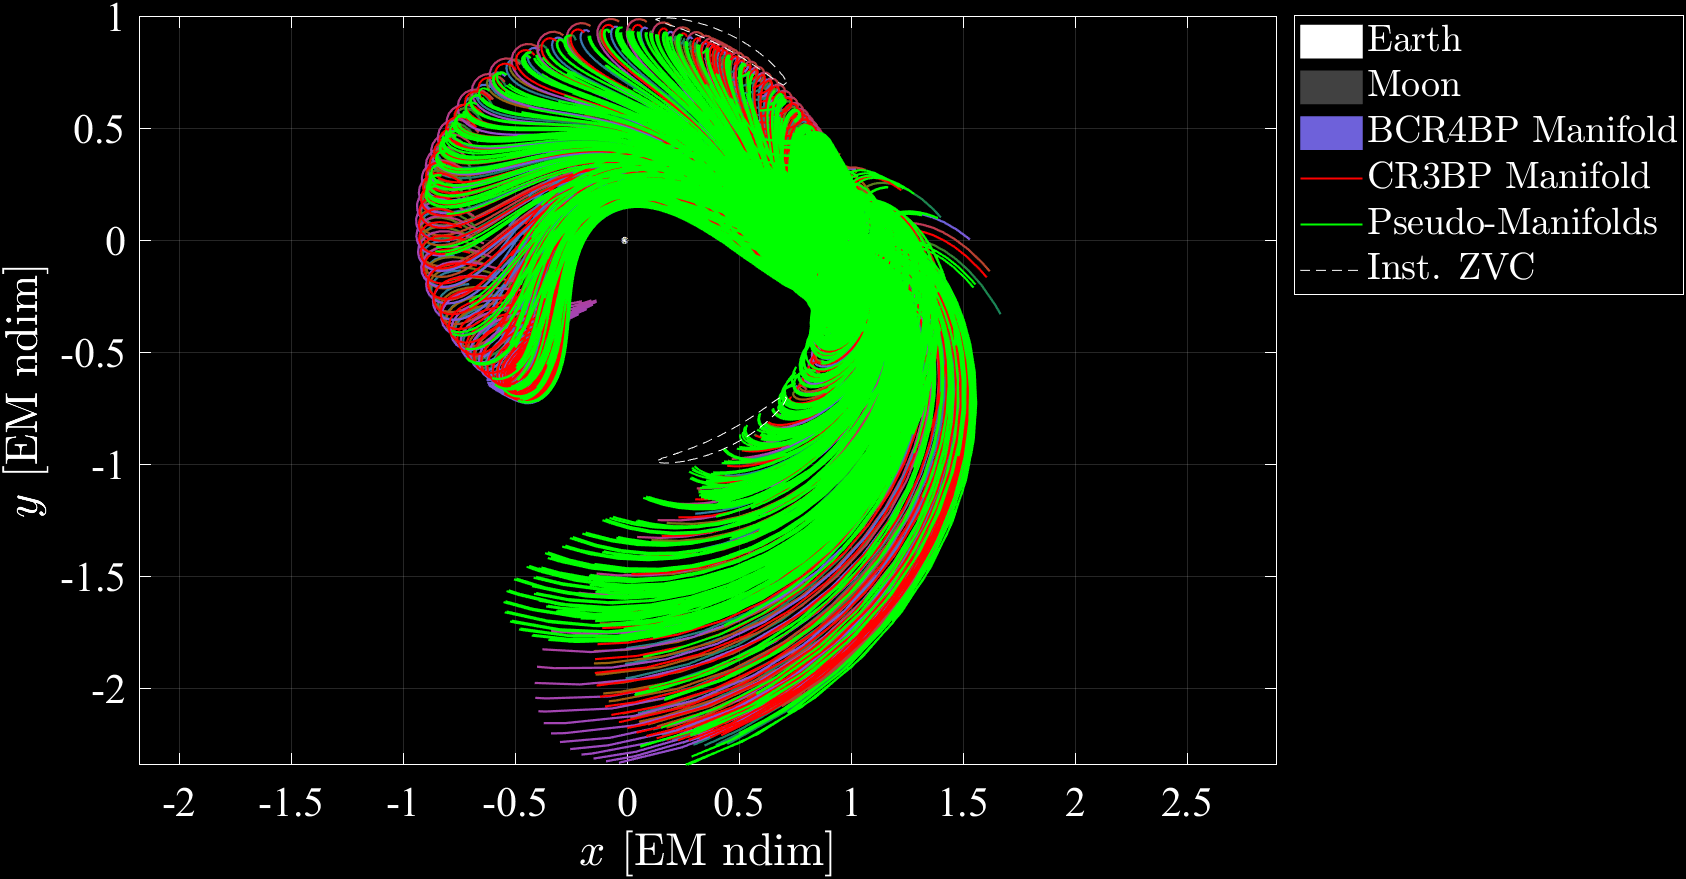
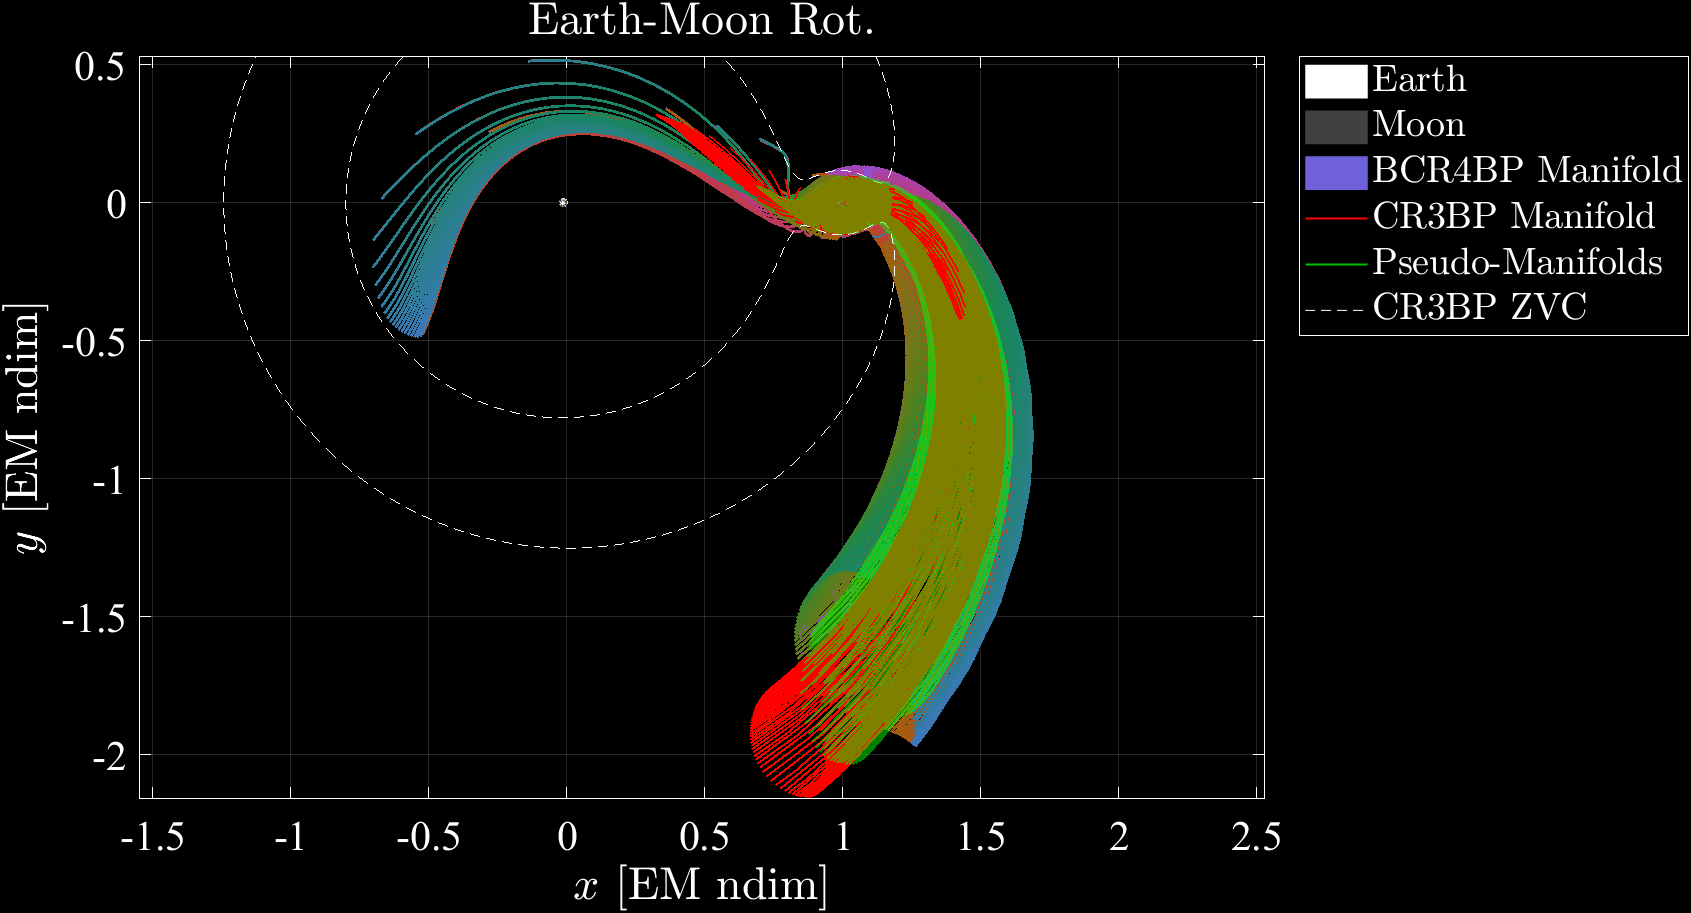
Updated plotting scripts

diff --git a/ManifoldComparison.m b/ManifoldComparison.m
@@ -27,8 +27,8 @@ Earth = plot3DBody("Earth", RE/lstar, [-mu, 0, 0]);
 set(Earth, 'DisplayName', "Earth")
 Moon = plot3DBody("Moon", Rm/lstar, [1-mu, 0, 0]);
 set(Moon, 'DisplayName', "Moon")
-plot3(BCR4BPManifold.orbit.x, BCR4BPManifold.orbit.y, BCR4BPManifold.orbit.z, 'b', 'DisplayName', "BCR4BP Orbit")
-plot3(CR3BPManifold.orbit.x, CR3BPManifold.orbit.y, CR3BPManifold.orbit.z, 'r', 'DisplayName', "CR3BP Orbit")
+% plot3(BCR4BPManifold.orbit.x, BCR4BPManifold.orbit.y, BCR4BPManifold.orbit.z, 'b', 'DisplayName', "BCR4BP Orbit")
+% plot3(CR3BPManifold.orbit.x, CR3BPManifold.orbit.y, CR3BPManifold.orbit.z, 'r', 'DisplayName', "CR3BP Orbit")
 for j = 1:BCR4BPManifold.n
     arc = plotColorLine(BCR4BPManifold.arcs{j}.x, BCR4BPManifold.arcs{j}.y, BCR4BPManifold.arcs{j}.z, BCR4BPManifold.arcs{j}.theta4, 0.005);
     if j == 1
@@ -42,17 +42,19 @@ for j = 1:CR3BPManifold.n
     end
 end
 for j = 1:pseudoManifold.n
-    arc = patch([pseudoManifold.arcs{j}.x; NaN], [pseudoManifold.arcs{j}.y; NaN], [pseudoManifold.arcs{j}.z; NaN], 'EdgeColor', 'g', 'EdgeAlpha', 0.5, 'LineWidth', 1, 'FaceColor', 'none', 'HandleVisibility', 'off', 'DisplayName', "Pseudo-Manifolds"); % "P-M ($\theta_{S_{0}}="+num2str(pseudoManifold.theta40*180/pi, '%.0f')+"^{\circ}$)"
+    V = [pseudoManifold.arcs{j}.x pseudoManifold.arcs{j}.y pseudoManifold.arcs{j}.z];
+    F = [(1:size(V, 1)-1)' (2:size(V, 1))'];
+    arc = patch('Vertices', V, 'Faces', F, 'EdgeColor', 'g', 'EdgeAlpha', 0.5, 'LineWidth', 1, 'FaceColor', 'none', 'HandleVisibility', 'off', 'DisplayName', "Pseudo-Manifolds"); % "P-M ($\theta_{S_{0}}="+num2str(pseudoManifold.theta40*180/pi, '%.0f')+"^{\circ}$)"
     if j == 1
         set(arc, 'HandleVisibility', 'on')
     end
 end
 axis equal
 % axis
-axisLimits = [-1.55 2.53 -2.16 0.53];
+% axisLimits = [-1.55 2.53 -2.16 0.53];
 grid on
-ZVC = getCR3BPZVC(mu, CR3BPManifold.orbit.JC, axisLimits, 250, 'w--');
-set(ZVC, 'DisplayName', "Inst. ZVC")
+% ZVC = getCR3BPZVC(mu, CR3BPManifold.orbit.JC, axisLimits, 250, 'w--');
+% set(ZVC, 'DisplayName', "CR3BP ZVC")
 % axis(axisLimits)
 xlabel("$x$ [EM ndim]", 'Interpreter', 'latex')
 ylabel("$y$ [EM ndim]", 'Interpreter', 'latex')
@@ -62,6 +64,6 @@ leg1 = legend('Location', 'bestoutside', 'Interpreter', 'latex');
 phasemap
 % phasebar('deg', 'Location', 'northwest', 'Size', 0.275);
 set(gca, 'Color', 'k');
-view(2)
+view(3)
 hold off
 % exportgraphics(fig1, 'ManifoldComparison_1.png', 'BackgroundColor', 'k')

diff --git a/EMSpatialOrbit.m b/EMSpatialOrbit.m
@@ -40,8 +40,8 @@ hold on
 % set(Earth, 'DisplayName', "Earth")
 Moon = plot3DBody("Moon", Rm/lstar, [1-mu, 0, 0]);
 set(Moon, 'DisplayName', "Moon")
-plot3(BCR4BPOrbit.x, BCR4BPOrbit.y, BCR4BPOrbit.z, 'b', 'DisplayName', "BCR4BP 3:1 Syn.")
-plot3(CR3BPCompOrbit.x, CR3BPCompOrbit.y, CR3BPCompOrbit.z, 'r', 'DisplayName', "CR3BP 3:1 Syn.")
+plot3(BCR4BPOrbit.x, BCR4BPOrbit.y, BCR4BPOrbit.z, 'b', 'DisplayName', "BCR4BP 5:2 Syn.")
+plot3(CR3BPCompOrbit.x, CR3BPCompOrbit.y, CR3BPCompOrbit.z, 'r', 'DisplayName', "CR3BP 5:2 Syn.")
 axis equal
 % axis
 % axis([-0.16 1.88 -0.67 0.67])
@@ -66,7 +66,7 @@ Moontheta = 0:(pi/180):2*pi;
 Moonx = lstar.*cos(Moontheta);
 Moony = lstar.*sin(Moontheta);
 plot3(1-muSB1+Moonx./lstarSB1, Moony./lstarSB1, zeros(1, length(Moontheta)), 'w:', 'DisplayName', "Moon Orbit")
-plot3(BCR4BPSB1Orbit.x, BCR4BPSB1Orbit.y, BCR4BPSB1Orbit.z, 'b', 'DisplayName', "BCR4BP 3:1 Syn.")
+plot3(BCR4BPSB1Orbit.x, BCR4BPSB1Orbit.y, BCR4BPSB1Orbit.z, 'b', 'DisplayName', "BCR4BP 5:2 Syn.")
 axis equal
 % axis
 % axis([-0.16 1.88 -0.67 0.67])

diff --git a/EMPlanarOrbit.m b/EMPlanarOrbit.m
@@ -27,8 +27,8 @@ hold on
 % set(Earth, 'DisplayName', "Earth")
 Moon = plot3DBody("Moon", Rm/lstar, [1-mu, 0, 0]);
 set(Moon, 'DisplayName', "Moon")
-plot3(BCR4BPOrbit.x, BCR4BPOrbit.y, BCR4BPOrbit.z, 'b', 'DisplayName', "BCR4BP 2:1 Syn.")
-plot3(CR3BPCompOrbit.x, CR3BPCompOrbit.y, CR3BPCompOrbit.z, 'r', 'DisplayName', "CR3BP 2:1 Syn.")
+plot3(BCR4BPOrbit.x, BCR4BPOrbit.y, BCR4BPOrbit.z, 'b', 'DisplayName', "BCR4BP 3:2 Syn.")
+plot3(CR3BPCompOrbit.x, CR3BPCompOrbit.y, CR3BPCompOrbit.z, 'r', 'DisplayName', "CR3BP 3:2 Syn.")
 axis equal
 % axis
 % axis([-0.16 1.88 -0.67 0.67])
